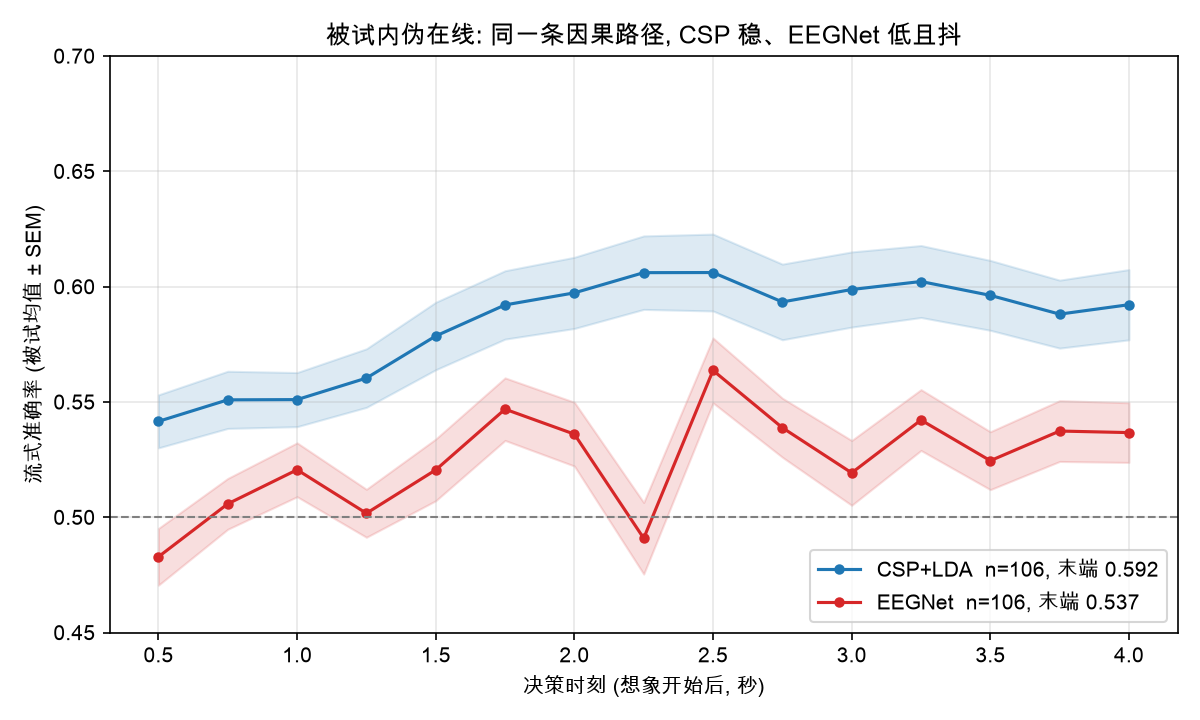
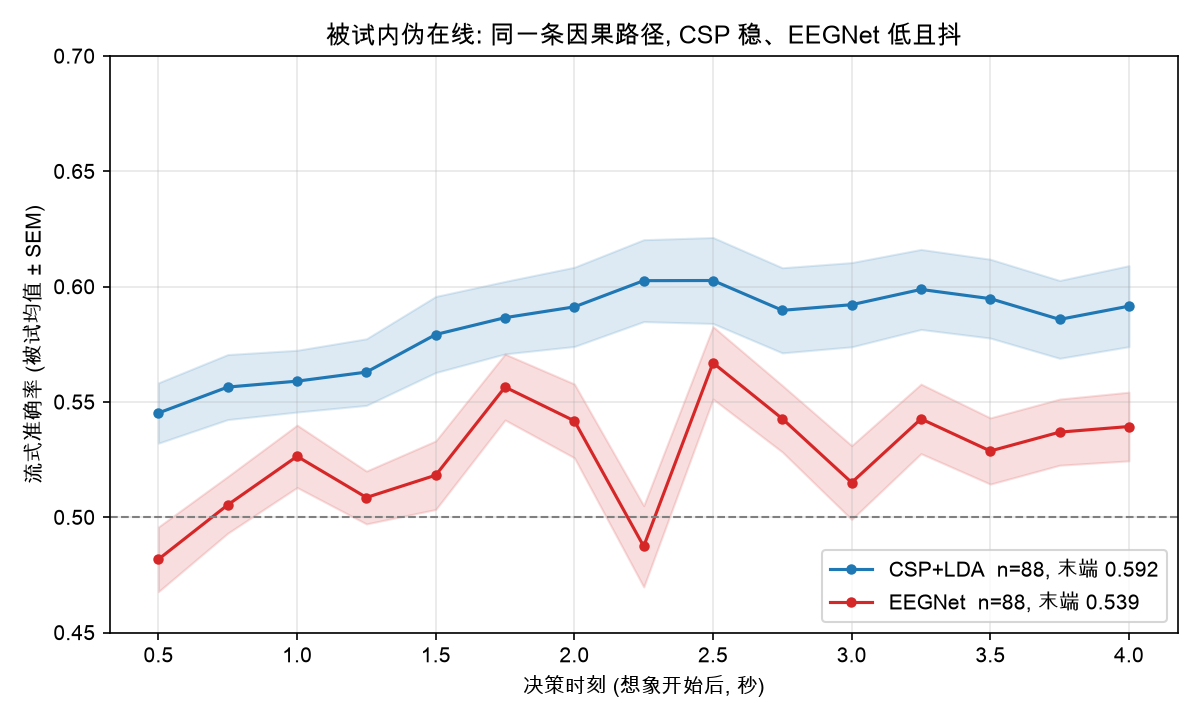
mi_decoder 配图口径修正: 伪在线延迟-精度曲线只画与离线同池的 88 人 (伪在线跑 106 人, 画图时按 csp_results 池过滤), 图已重生成

diff --git a/mi_decoder/src/plot_article.py b/mi_decoder/src/plot_article.py
@@ -3,7 +3,7 @@
 只读 results/metrics/ 下已有的 csv, 不重跑任何解码。输出到 results/figures/:
   erd_vs_csp_acc.png                  §3   ERD 强度 vs CSP 准确率, 88 人散点
   causal_vs_zerophase.png             §6.2 因果 / 零相位滤波: 脉冲响应 + 包络延迟
-  pseudo_online_csp_vs_eegnet.png     §6.5 106 人伪在线延迟-精度曲线, CSP vs EEGNet
+  pseudo_online_csp_vs_eegnet.png     §6.5 88 人伪在线延迟-精度曲线, CSP vs EEGNet
   within_subject_summary.png          §7   总结图: 同 88 人, 三种方法离线 + 两种方法在线的分布
 
 运行: python -m src.plot_article
@@ -106,10 +106,13 @@ def plot_causal_vs_zerophase(paths, fs=160):
 
 
 def plot_pseudo_online_curves(paths):
+    # 伪在线跑了106人, 只画与离线同池的 88 人
+    pool = set(pd.read_csv(paths["metrics_dir"] / "csp_results.csv").subject)
     fig, ax = plt.subplots(figsize=(8, 4.8))
     for fname, c, label in [("pseudo_online_curves.csv", "C0", "CSP+LDA"),
                             ("pseudo_online_eegnet_curves.csv", "C3", "EEGNet")]:
         cur = pd.read_csv(paths["metrics_dir"] / fname)
+        cur = cur[cur.subject.isin(pool)]
         g = cur.groupby("offset").acc
         m, se = g.mean(), g.std() / np.sqrt(g.count())
         n = cur.subject.nunique()
